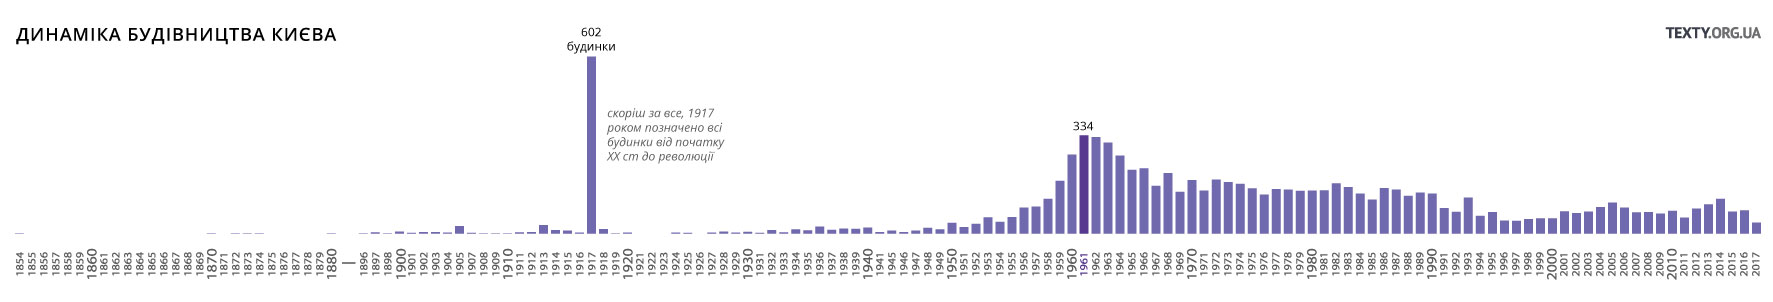
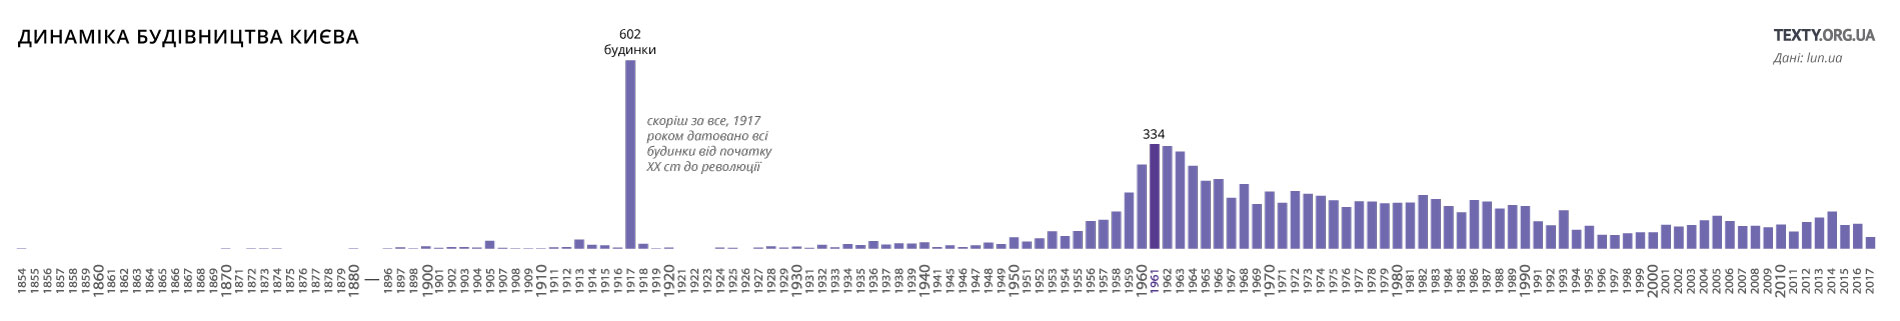
поправила перший орнамент для моб.версії

diff --git a/index.html b/index.html
@@ -131,6 +131,9 @@
         Микола Дьомін, місто за темпами будівництва розвинулося на 30 відсотків порівняно з попередніми десятиліттями
         (дані наших карт свідчать, що ріст будівництва був ще стрімкішим).
       </p>
+
+      <p style="color: #7e70d6"><i>Інтерактивна катра показує коли з’являлися ті будинки столиці, які оточують нас
+        сьогодні (починаючи з 1854 до 2018 року). <br> Згідно з даними lun.ua</i></p>
     </div>
   </div>
 
@@ -160,6 +163,8 @@
       <img style="width: 100%" src="img/pattern02.png"/>
       <img style="width: 100%" src="img/pattern01.png"/>
       <img style="width: 100%" src="img/pattern02.png"/>
+      <img class="mob" style="width: 100%" src="img/pattern01.png"/>
+      <img class="mob" style="width: 100%" src="img/pattern02.png"/>
     </div>
 
     <div class="text row1">
@@ -187,7 +192,8 @@
     </div>
 
     <div class="row2">
-      <img style="width: 100%" src="img/dynamic.jpg"/>
+      <img class="desk" style="width: 100%" src="img/dynamic.jpg"/>
+      <img class="mob" style="width: 100%" src="img/dynamic_mob.jpg"/>
     </div>
 
     <div class="text row3">
